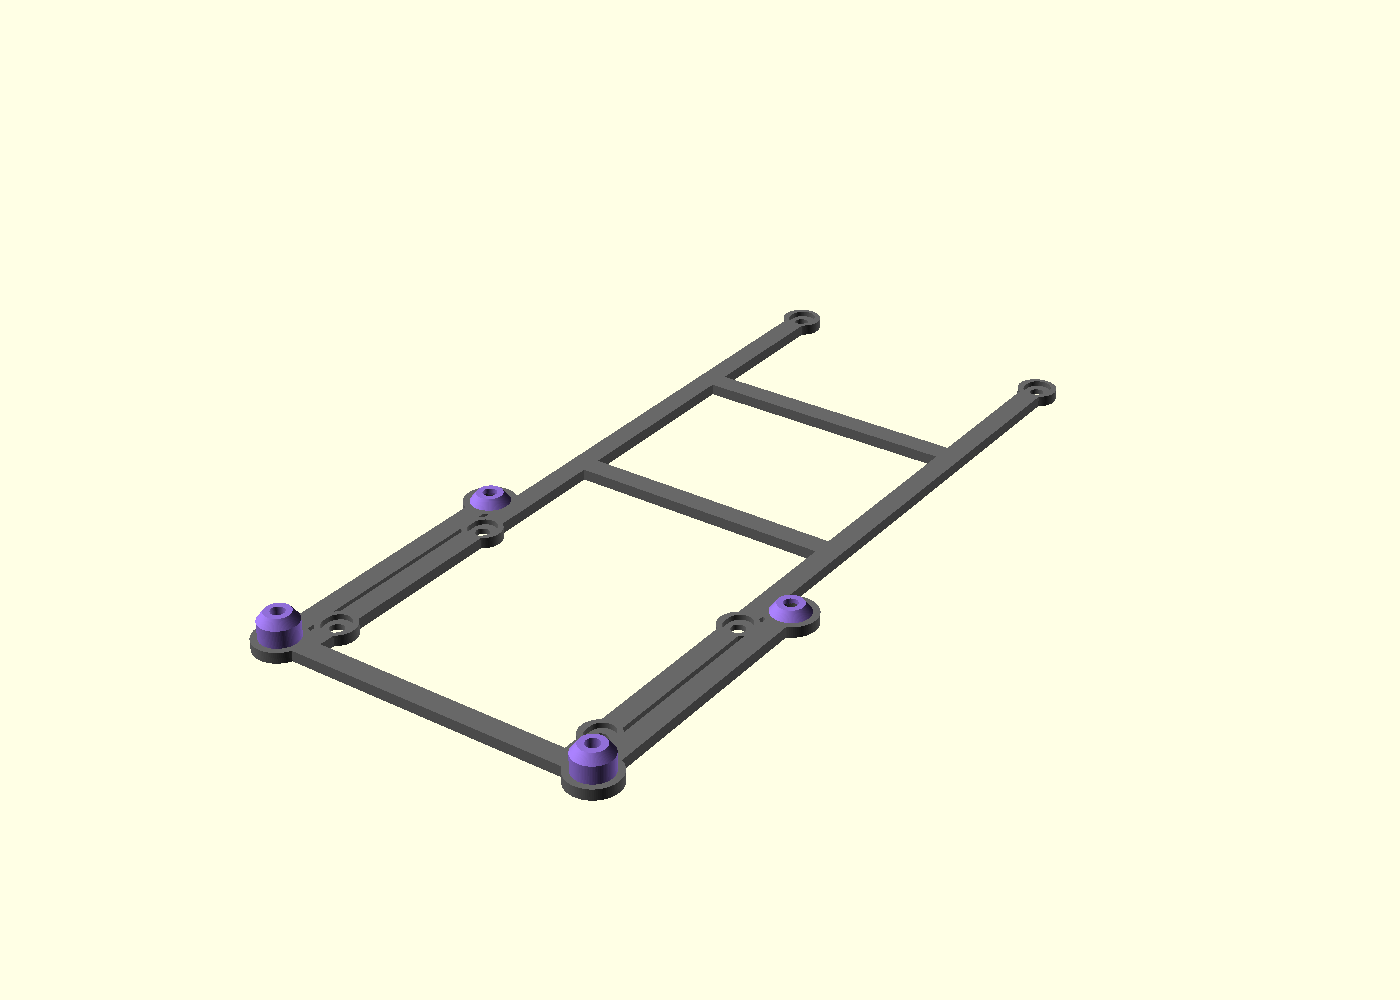
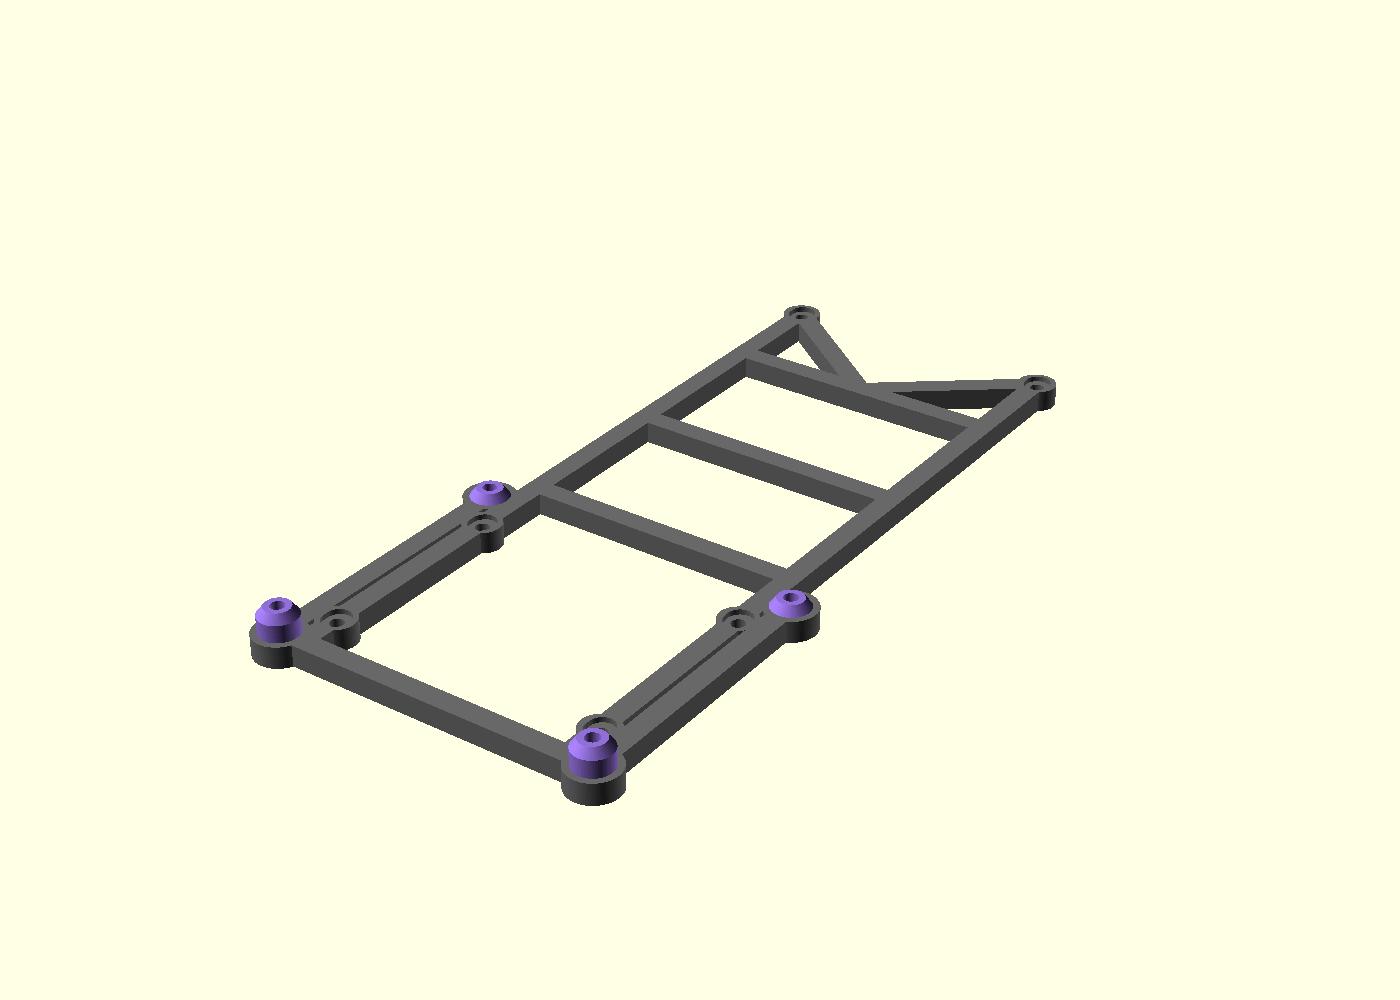
Strengthen lower frame

Changed region(s): [[0.1843, 0.31, 0.7679, 0.806]]

diff --git a/README.md b/README.md
@@ -14,6 +14,7 @@ The design includes:
 
 - Matrice 300 mounting hole pattern: `78 x 66 mm`
 - lower mounting frame with two rear rails
+- two rear half-diagonal braces for tail reinforcement
 - raised payload box with cable pass-throughs
 - separate screw-mounted lid with internal lip
 - internal triangular screw pads with M3 nut traps
@@ -28,10 +29,13 @@ The design includes:
 
 - M300 hole spacing: `78 x 66 mm`
 - lower rear rail outer width: `71 mm`
+- rear cross-brace clear distances from AB: `70 mm`, `110 mm`, `150 mm`
+- rear half-diagonal braces: from `E` and `F` to the midpoint of the last rear cross brace
 - box outer width: `94.5 mm`
 - box inner width: about `90.5 mm`
 - box inner length: about `189.5 mm`
-- vertical clearance between lower frame and upper plate: `21 mm`
+- lower frame thickness: `5 mm`
+- vertical clearance between lower frame and upper plate: `18.5 mm`
 - box wall thickness: `2 mm`
 - lid thickness: `1.5 mm`
 - M3 clearance holes: `3.2 mm`